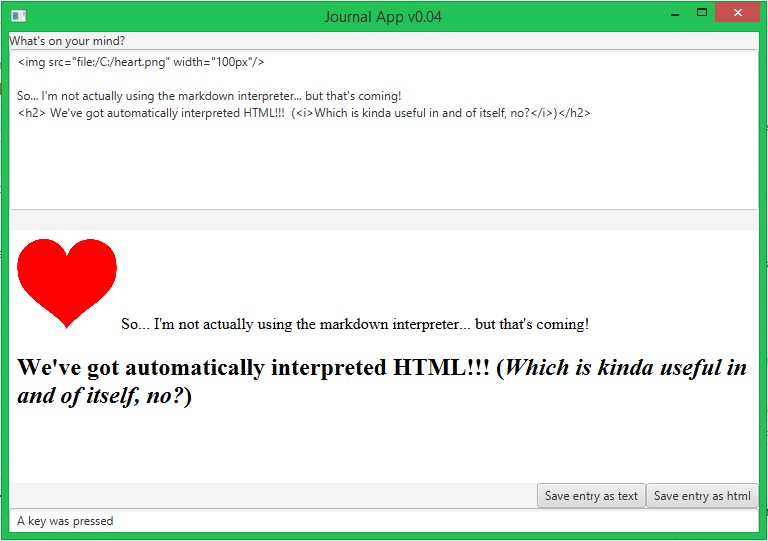
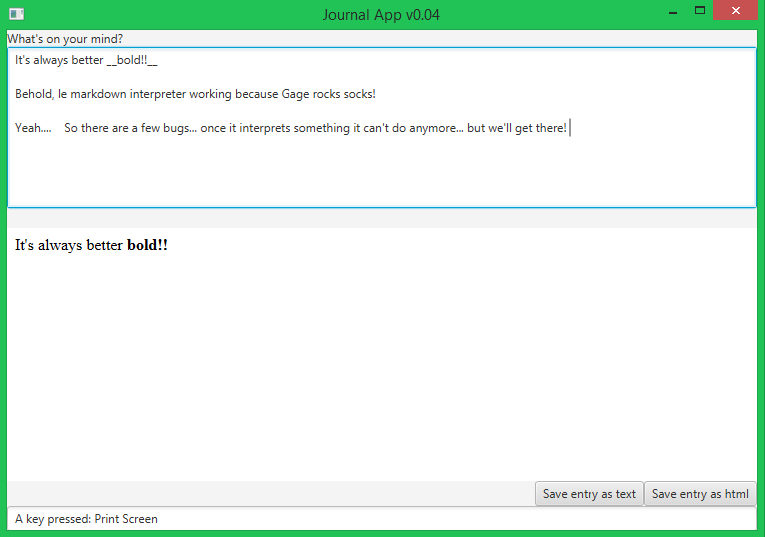
edited out main in Markdown.java, added Markdown interpreter to JournalApp for proof of concept.  We've got bold baby!

Changed region(s): [[0.0, 0.0, 1.0, 1.0], [0.1503, 0.5661, 0.7817, 0.6257]]

diff --git a/JournalApp.java b/JournalApp.java
@@ -43,7 +43,7 @@ public class JournalApp extends Application {
   private TextArea textArea;
   private TextField myConsole;
   private Browser browser;
-
+  private Markdown md;
   /**
   * method writeFile
   * A generic method to write to a file.
@@ -65,6 +65,7 @@ public class JournalApp extends Application {
   @Override
   public void start(Stage stage) {
     Region spacer = new Region();
+    md = Markdown.getInstance();
     Button saveBtn = new Button();
     Button htmlBtn = new Button();
     Label label = new Label("What's on your mind?");
@@ -116,8 +117,8 @@ public class JournalApp extends Application {
     textArea.setOnKeyReleased(new EventHandler<KeyEvent>() {
       @Override
       public void handle(KeyEvent event) {
-        myConsole.setText("A key was pressed");
-        browser.interpret("<div>" + textArea.getText() + "</div>");
+        myConsole.setText("A key pressed: " + event.getCode().getName());
+        browser.interpret("<div>" + md.Parse(textArea.getText()) + "</div>");
         //This will be where I send info to the markdown interpreter
         //for displaying
       }
